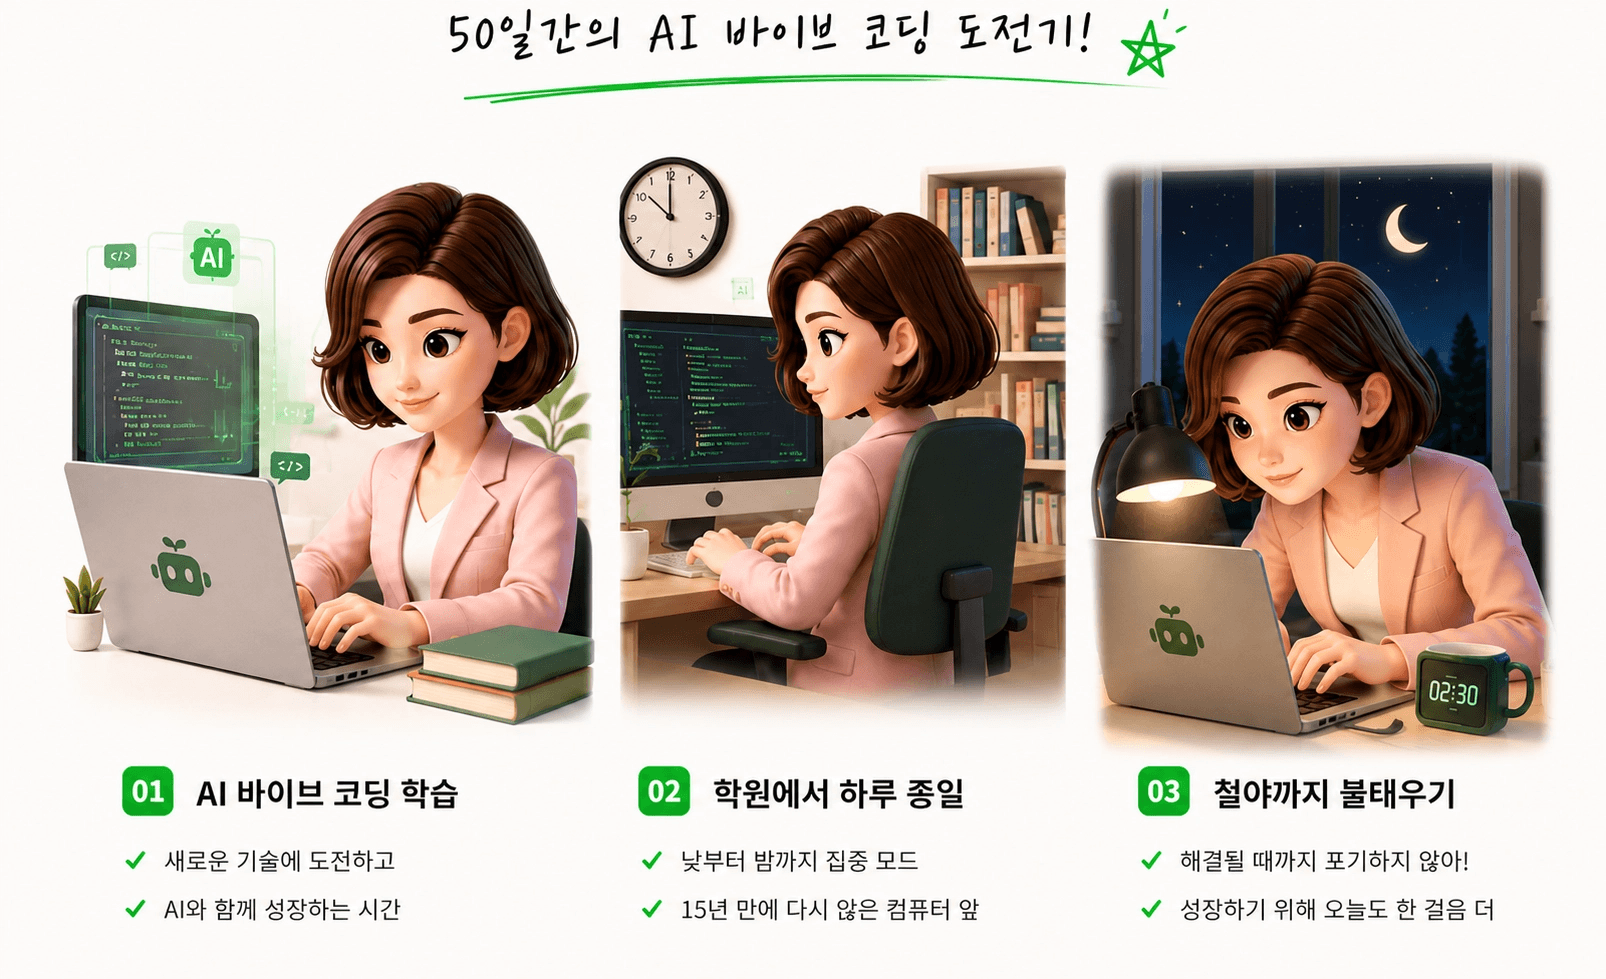
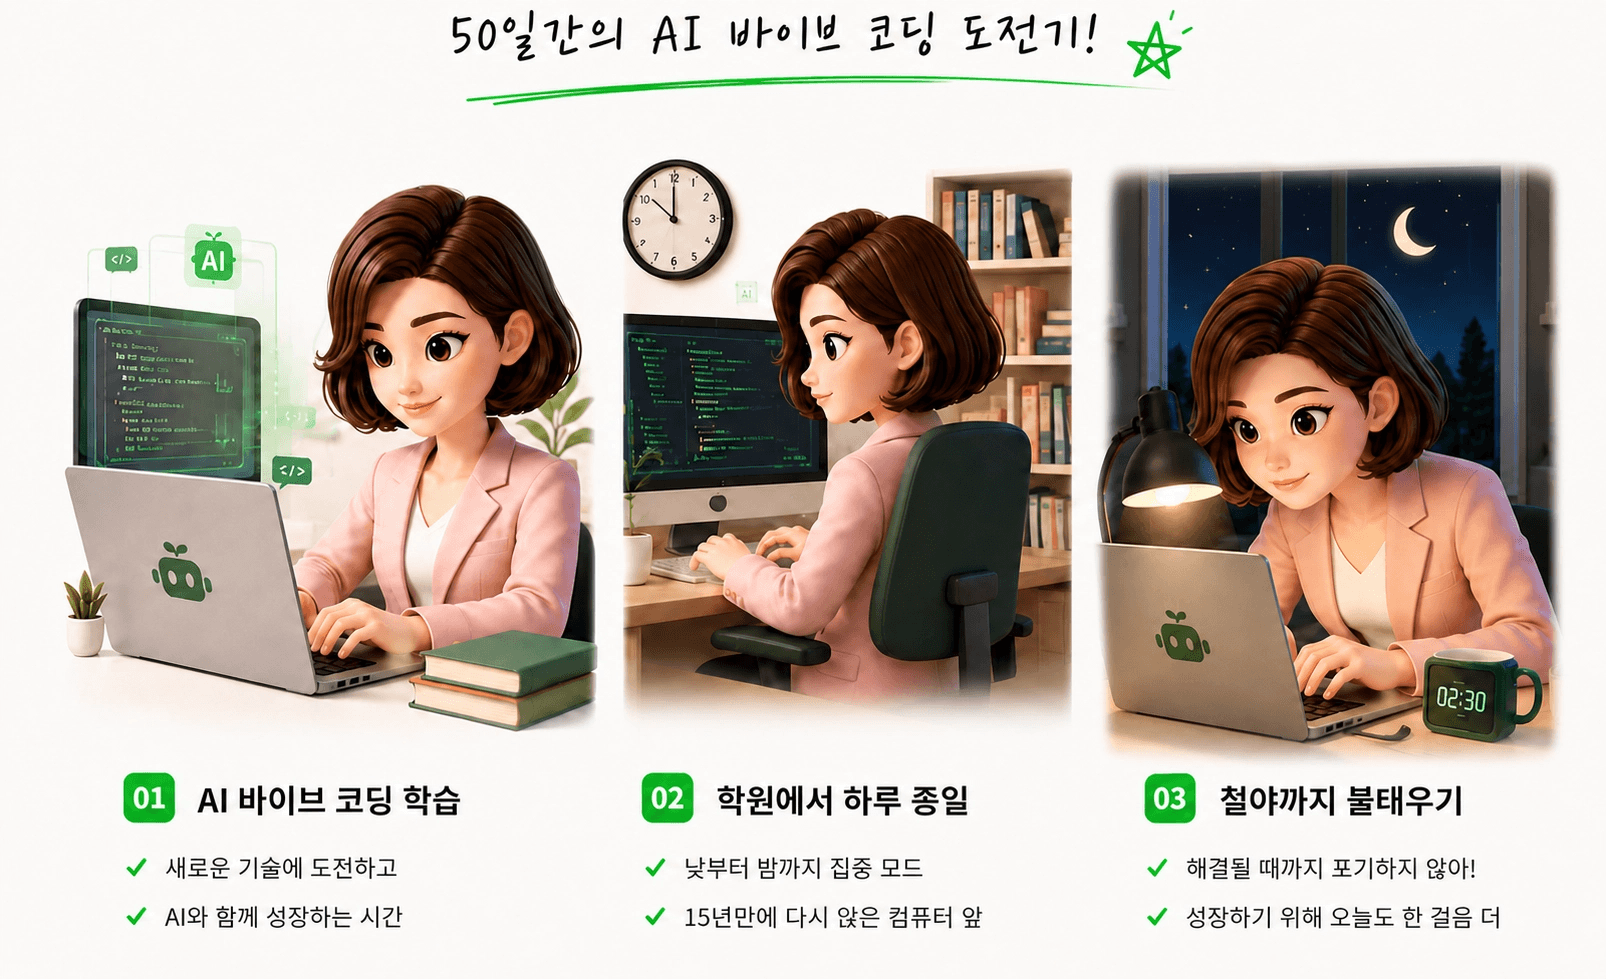
Add files via upload

diff --git a/index.html b/index.html
@@ -448,7 +448,7 @@
                         <div class="editorial-item">
                             <div class="item-num">01</div>
                             <div class="item-body">
-                                <h3>금융 전문 보험사 개척 영업</h3>
+                                <h3>금융 전문 보험/증권사 개척 영업</h3>
                                 <p>고객의 자산과 마음을 직접 여는 영업의 최전선을 경험하며, 거절에 흔들리지 않는 단단한 멘탈 구조와 1:1 대인 커뮤니케이션의 정석을 확립했습니다.
                                 </p>
                             </div>